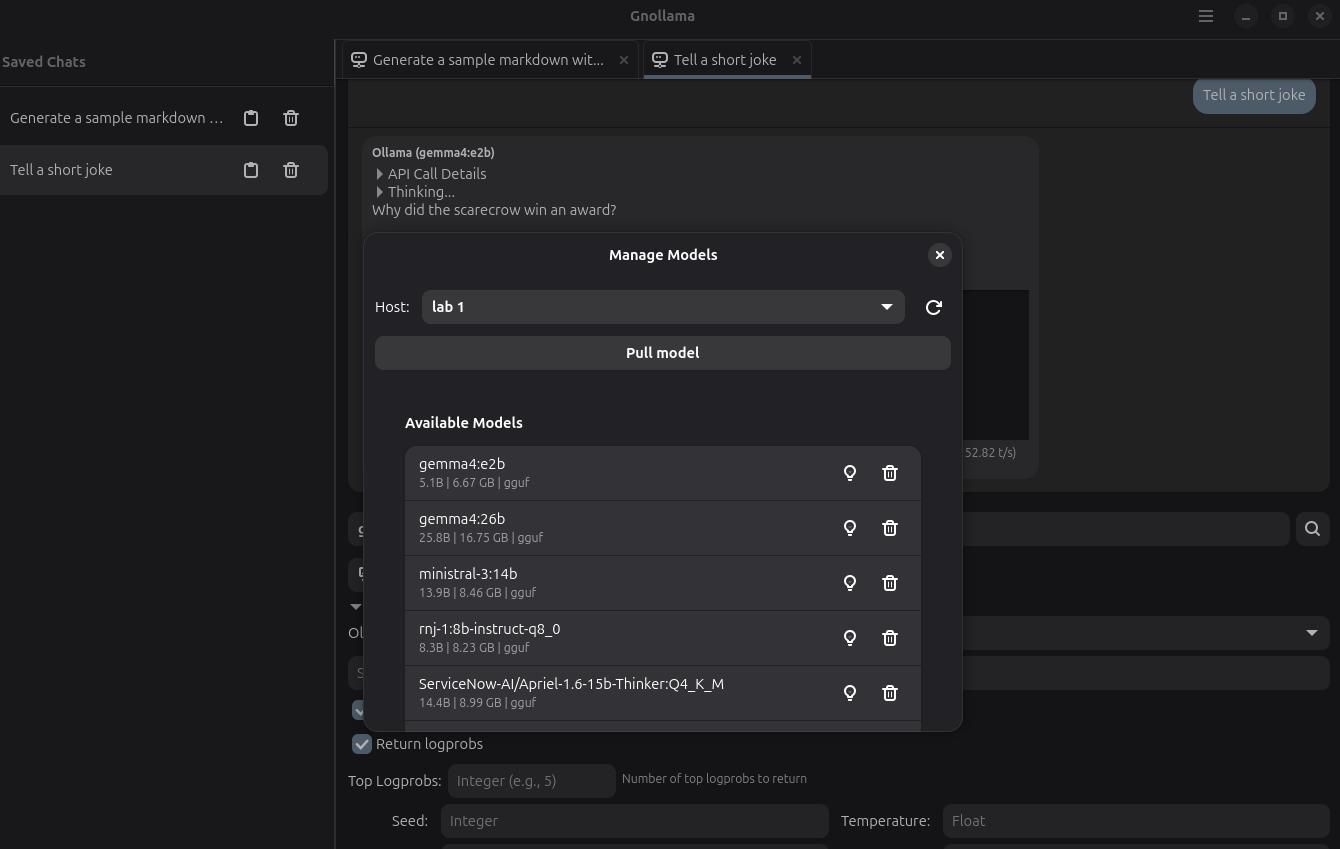
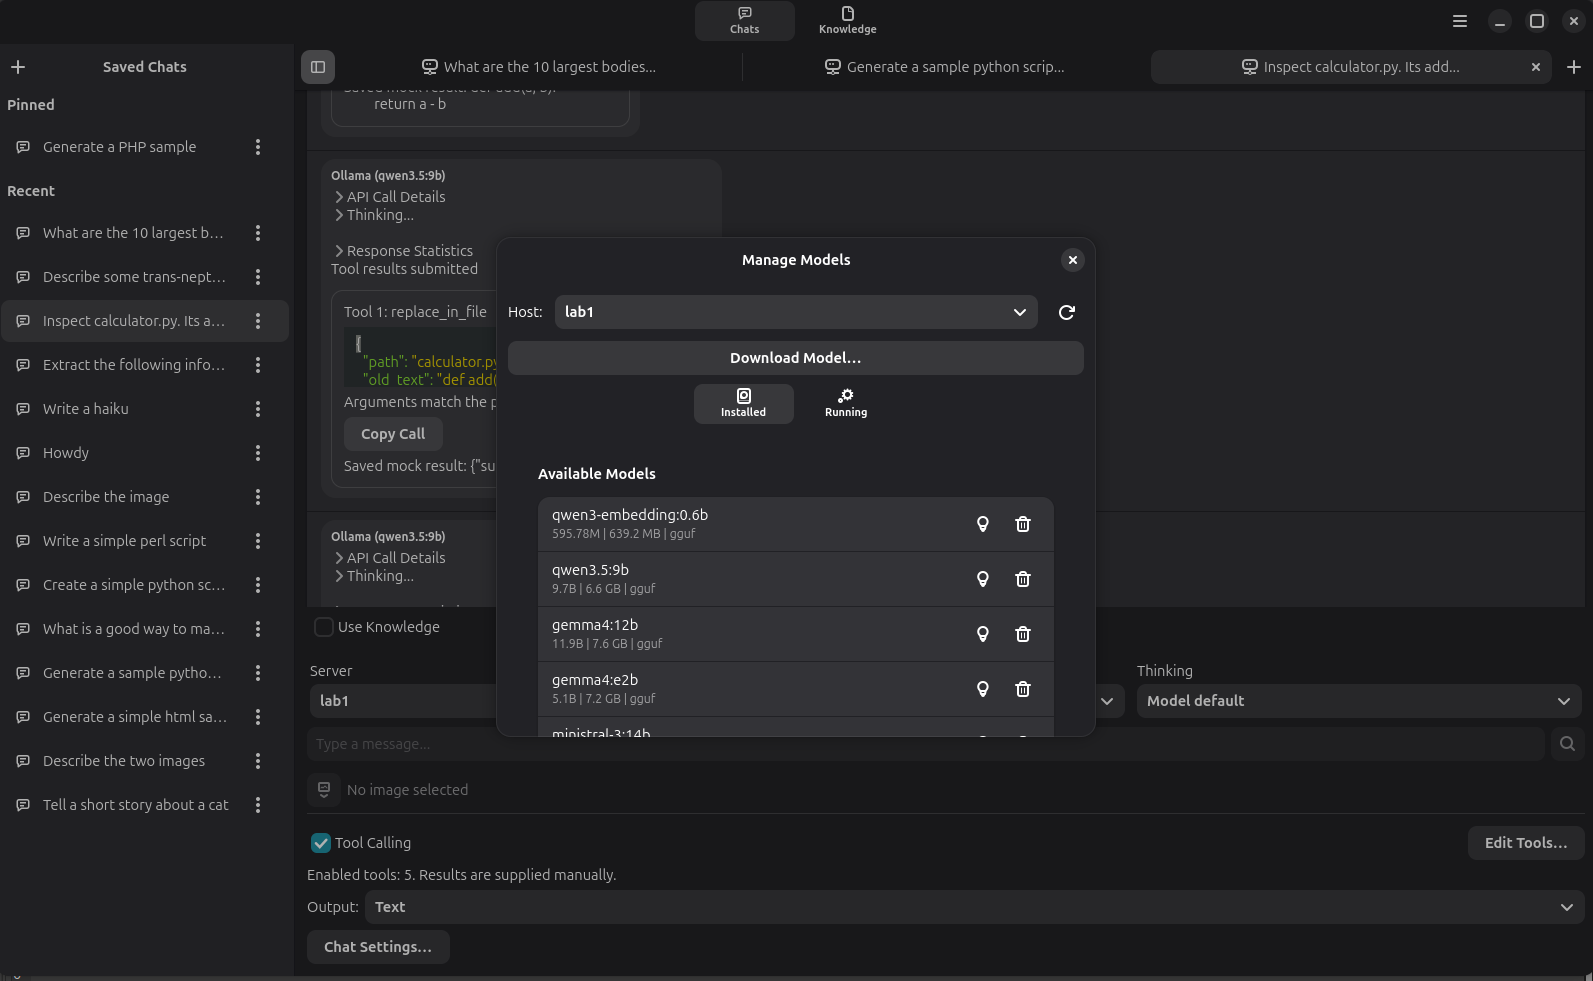
update screenshots

diff --git a/README.md b/README.md
@@ -140,7 +140,7 @@ Applied definitions and saved mock results persist per chat, including chats clo
 
 <img src="./screenshots/gnollama-screenshot.png" alt="gnollama" align="left"/>
 
-<img src="./screenshots/gnollama-chat-options.png" alt="gnollama" align="left"/>
+<img src="./screenshots/gnollama-rag-collections.png" alt="gnollama" align="left"/>
 
 <img src="./screenshots/gnollama-manage-models.png" alt="gnollama" align="left"/>
 
